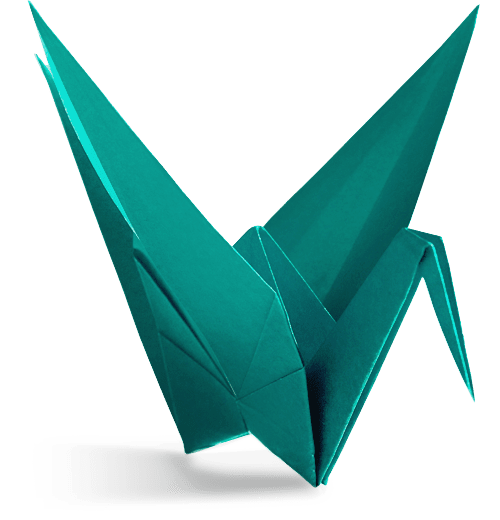
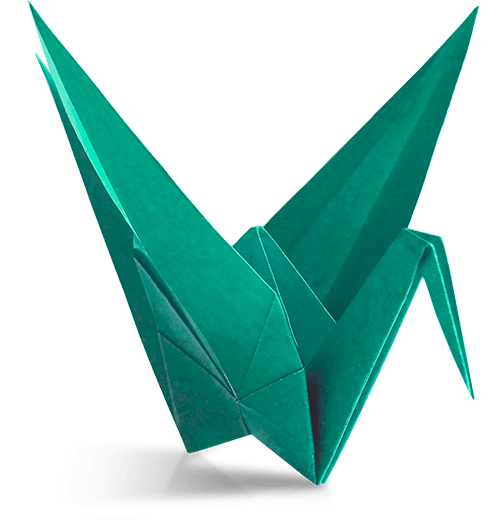
crane artwork

diff --git a/src/scss/components/crane.scss b/src/scss/components/crane.scss
@@ -10,13 +10,12 @@
   }
 
   img {
-    filter: saturate(0.7) brightness(1.3) hue-rotate(-10deg);
     margin: auto;
     transform: translateX(-5%);
     width: auto;
 
     .Darkmode & {
-      filter: contrast(1.2) saturate(0.8) brightness(0.9) hue-rotate(40deg);
+      filter: saturate(0.9) brightness(0.8) contrast(1.1) hue-rotate(35deg);
     }
   }
 }
